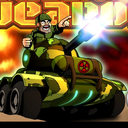
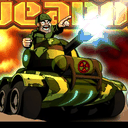
Fix VitaShell error 0x8010113D by converting LiveArea PNGs to 8-bit indexed colormap

diff --git a/CONTEXT.md b/CONTEXT.md
@@ -66,6 +66,6 @@
 - [x] Configured VitaSDK CMake build pipeline with all dependencies (`SDL2`, `SDL2_image`, `SDL2_mixer`, `vitaGL`, `vitashark`, `mathneon`, `libpng`, `libjpeg`, `libwebp`, `tinyxml2`).
 - [x] Discovered and resolved PopCap's XML designer typo in `Anims.xml` (`nuke="yes"/ rare="yes">`) via automatic in-memory XML preparation.
 - [x] Added automated unit test suite (`tests/test_xml_loader.cpp`) verifying 21 craft types, 19 missions, 84 waves, 10 bosses, and 60 ambient animations with 100% pass rate.
-- [x] Successfully compiled and packaged `HeavyWeaponDeluxe.vpk` (3.2 MB) in containerized VitaSDK.
-- [x] Created `README.md` and `CONTEXT.md` documentation.
+- [x] Resolved VitaShell error `0x8010113D` by converting all LiveArea PNGs (`icon0.png`, `bg.png`, `startup.png`) to 8-bit indexed colormap format as strictly required by Sony SceAppMgr.
+- [x] Successfully recompiled and packaged `HeavyWeaponDeluxe.vpk` (2.9 MB) with compliant LiveArea assets.
 - [x] Synchronized all updates with GitHub repository.
